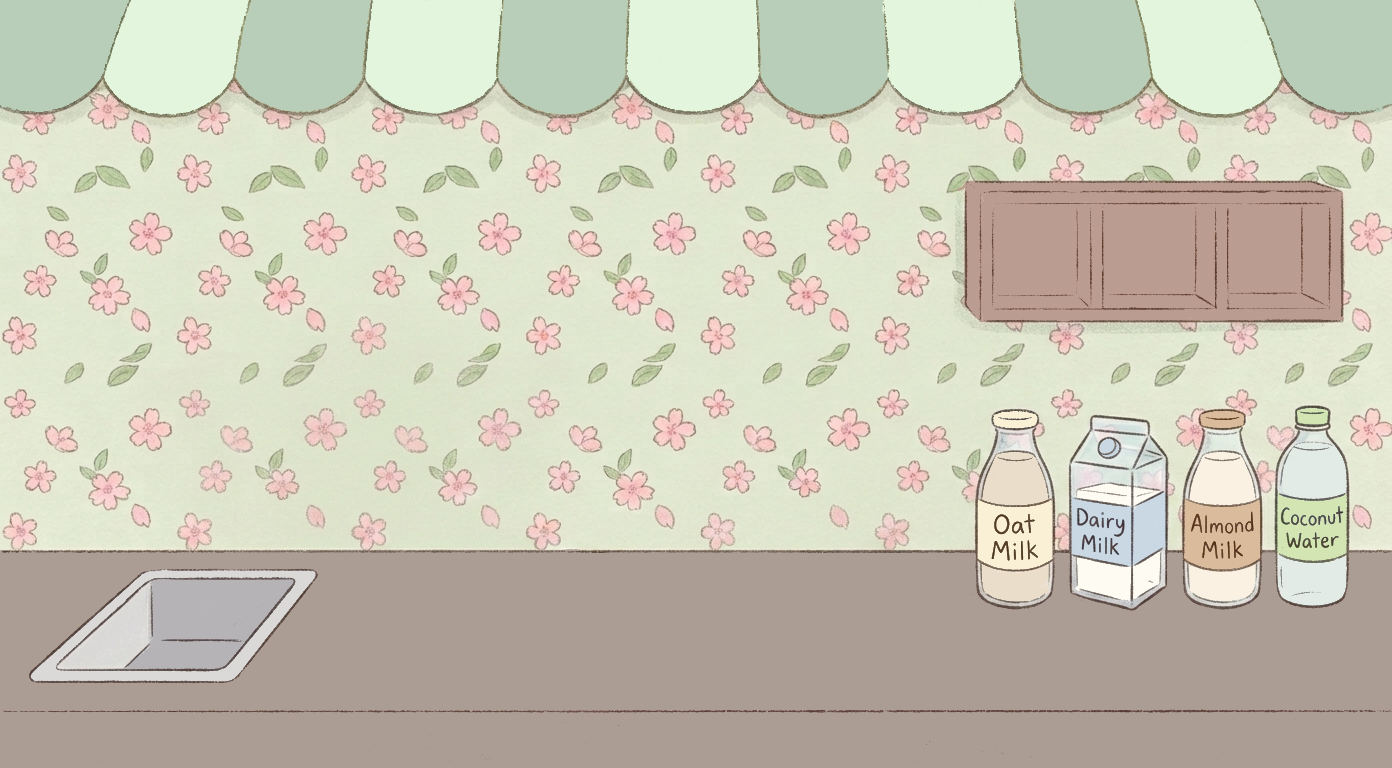
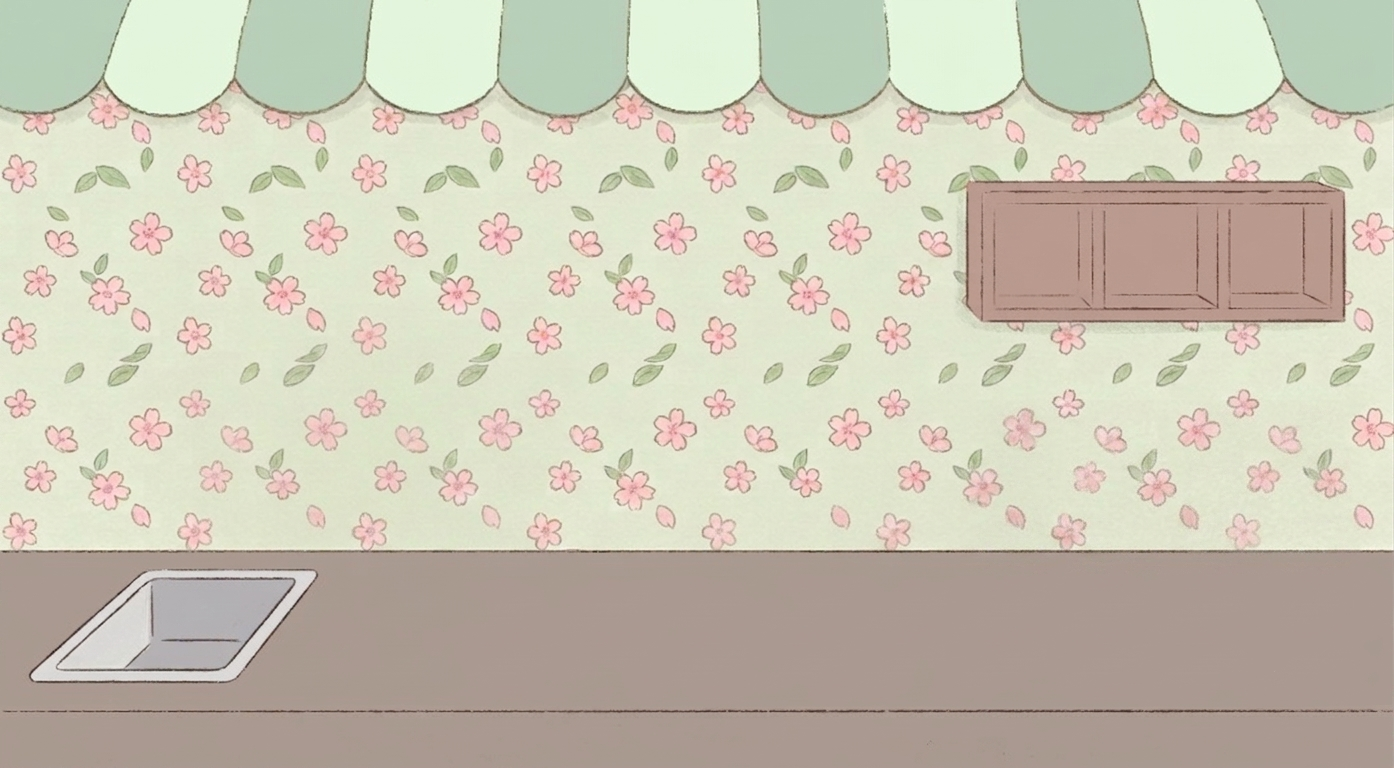
Separated elements from background in frame 4 (milk station), bottles are now selectable

Changed region(s): [[0.6796, 0.5312, 0.9885, 0.8125]]

diff --git a/src/components/MilkSelection.js b/src/components/MilkSelection.js
@@ -20,6 +20,91 @@ const CUP_SPOTS = {
 const SHELF_SIZE = { width: 6.47, height: 12.39 };
 const TABLE_SIZE = { width: 19.40, height: 37.16 }; // same aspect ratio, 3x
 
+// The four milk/water bottles, standing in a tight row on the counter to
+// the right of the sink, roughly where they used to be baked directly into
+// MilkMixingStation.png before that art was swapped for a bottle-free
+// version. All four source PNGs share (near enough) the same 169x325
+// canvas aspect ratio, so rather than track four slightly different boxes
+// they're uniform: one BOTTLE_WIDTH/BOTTLE_HEIGHT pair (converted from that
+// canvas aspect into container-relative % -- see the width formula below,
+// which accounts for the container itself being 1920x1080 rather than
+// square) and one shared BOTTLE_BOTTOM so every bottle's base sits on the
+// same counter line regardless of height. These positions are each
+// bottle's "home" spot -- see BOTTLE_HOME below, and the drag/snap-back
+// handlers in the component, for the pick-up-and-put-back interaction.
+// top/BOTTLE_BOTTOM carry the same -0.96 letterbox offset as CUP_SPOTS/
+// ICE_BOX_SPOTS above.
+const BOTTLE_CANVAS_ASPECT = 169 / 325; // width/height, shared by all four PNGs
+const BOTTLE_HEIGHT = 38;
+const BOTTLE_WIDTH = BOTTLE_HEIGHT * BOTTLE_CANVAS_ASPECT * (9 / 16); // container is 1920x1080
+// A bit lower than the counter line the bottles used to stand on in the
+// baked-in art (78.47), but still well clear of the counter's front-edge
+// seam (~90.7% in container space, measured off MilkMixingStation.png) so
+// the bigger bottles below don't hang off the counter.
+const BOTTLE_BOTTOM = 83;
+const BOTTLE_VISUAL_GAP = 0.3; // sliver of space between each bottle's actual silhouette
+const BOTTLE_CLUSTER_CENTER = 83; // roughly centered under the cabinet in the art
+
+// Each PNG's canvas has a different amount of transparent padding around
+// its actual bottle/carton silhouette (measured from each file's own alpha
+// bounding box, as a fraction of its 169-or-170-wide canvas) -- packing by
+// box edges alone left wildly uneven, much-bigger-than-intended-looking
+// gaps since e.g. coconut's canvas has ~40% empty space on its left side
+// alone. leftPad/rightPad below are what let the loop underneath space
+// bottles by where their actual art starts/ends instead of by their boxes.
+const BOTTLE_KEYS = [
+  { key: 'oat', src: './OatMilk.png', alt: 'Oat milk', leftPad: 24 / 169, rightPad: (169 - 108) / 169 },
+  { key: 'dairy', src: './DairyMilk.png', alt: 'Dairy milk', leftPad: 34 / 170, rightPad: (170 - 136) / 170 },
+  { key: 'almond', src: './AlmondMilk.png', alt: 'Almond milk', leftPad: 34 / 169, rightPad: (169 - 119) / 169 },
+  { key: 'coconut', src: './CoconutWater.png', alt: 'Coconut water', leftPad: 67 / 169, rightPad: (169 - 144) / 169 },
+];
+
+// Walk left-to-right so each bottle's visible content (box left + leftPad,
+// through box left + (1 - rightPad) * BOTTLE_WIDTH) sits exactly
+// BOTTLE_VISUAL_GAP past the previous bottle's, then shift the whole row
+// so it's centered on BOTTLE_CLUSTER_CENTER.
+const bottleBoxLefts = [0];
+for (let i = 1; i < BOTTLE_KEYS.length; i += 1) {
+  const prev = BOTTLE_KEYS[i - 1];
+  const gapNeeded = (1 - prev.rightPad - BOTTLE_KEYS[i].leftPad) * BOTTLE_WIDTH + BOTTLE_VISUAL_GAP;
+  bottleBoxLefts.push(bottleBoxLefts[i - 1] + gapNeeded);
+}
+const clusterBoxWidth = bottleBoxLefts[bottleBoxLefts.length - 1] + BOTTLE_WIDTH - bottleBoxLefts[0];
+const clusterStartLeft = BOTTLE_CLUSTER_CENTER - clusterBoxWidth / 2;
+
+const BOTTLE_ITEMS = BOTTLE_KEYS.map((item, index) => ({
+  key: item.key,
+  src: item.src,
+  alt: item.alt,
+  left: clusterStartLeft + bottleBoxLefts[index],
+  top: BOTTLE_BOTTOM - BOTTLE_HEIGHT,
+  width: BOTTLE_WIDTH,
+  height: BOTTLE_HEIGHT,
+}));
+
+// Each bottle's counter spot, keyed for lookup -- both the starting
+// position on mount and the "home" a bottle snaps back to once it's been
+// picked up and set back down (see BOTTLE_SNAP_FRACTION/BOTTLE_CLICK_MAX_
+// MOVE_PCT below).
+const BOTTLE_HOME = BOTTLE_ITEMS.reduce((acc, item) => {
+  acc[item.key] = { left: item.left, top: item.top };
+  return acc;
+}, {});
+
+// Same idea as MatchaMaking's kettle/bowl/whisk: drop a bottle back close
+// to its home spot and it snaps the rest of the way in, scaled to the
+// bottle's own footprint. A drop anywhere else just leaves it there.
+const BOTTLE_SNAP_FRACTION = 0.5;
+// Below this much total pointer movement (in container %), a pointer-down
+// -> pointer-up is treated as a plain click/tap rather than a drag -- lets
+// players snap a displaced bottle straight home with a single click/Select
+// press instead of having to drag it all the way back themselves.
+const BOTTLE_CLICK_MAX_MOVE_PCT = 1;
+
+function clampPct(value, size) {
+  return Math.min(Math.max(value, 0), 100 - size);
+}
+
 // Seven ice cubes start piled inside the ice box in two vertical columns
 // (4 left, 3 right), each cube overlapping the one above it so the stack
 // stays within the box's shallow depth without spilling past its bottom
@@ -246,6 +331,71 @@ const MilkSelection = ({ activeStep, customerNumber, onNavigate, onAdvance }) =>
     });
   };
 
+  // ---- Milk/water bottles: pick up, move anywhere, snap back home -------
+  const [bottlePositions, setBottlePositions] = useState(BOTTLE_HOME);
+  // Which bottle (if any) is being dragged right now, and its live position.
+  const [bottleDrag, setBottleDrag] = useState(null); // { key, left, top } | null
+  const bottleDragStartRef = useRef({ pointerX: 0, pointerY: 0, left: 0, top: 0 });
+
+  const handleBottlePointerDown = (item) => (e) => {
+    const base = bottlePositions[item.key];
+    e.currentTarget.setPointerCapture(e.pointerId);
+    bottleDragStartRef.current = {
+      pointerX: e.clientX,
+      pointerY: e.clientY,
+      left: base.left,
+      top: base.top,
+    };
+    setBottleDrag({ key: item.key, left: base.left, top: base.top });
+  };
+
+  const handleBottlePointerMove = (item) => (e) => {
+    if (!bottleDrag || bottleDrag.key !== item.key) return;
+    const rect = containerRef.current?.getBoundingClientRect();
+    if (!rect) return;
+    const dxPct = ((e.clientX - bottleDragStartRef.current.pointerX) / rect.width) * 100;
+    const dyPct = ((e.clientY - bottleDragStartRef.current.pointerY) / rect.height) * 100;
+    setBottleDrag({
+      key: item.key,
+      left: clampPct(bottleDragStartRef.current.left + dxPct, item.width),
+      top: clampPct(bottleDragStartRef.current.top + dyPct, item.height),
+    });
+  };
+
+  const handleBottlePointerUp = (item) => (e) => {
+    if (!bottleDrag || bottleDrag.key !== item.key) return;
+    e.currentTarget.releasePointerCapture?.(e.pointerId);
+    const home = BOTTLE_HOME[item.key];
+    const totalMove = Math.max(
+      Math.abs(e.clientX - bottleDragStartRef.current.pointerX),
+      Math.abs(e.clientY - bottleDragStartRef.current.pointerY)
+    );
+    const rect = containerRef.current?.getBoundingClientRect();
+    const totalMovePct = rect ? (totalMove / Math.max(rect.width, rect.height)) * 100 : 0;
+    const snapBack =
+      totalMovePct < BOTTLE_CLICK_MAX_MOVE_PCT || // barely moved -- treat as a click, snap home
+      (Math.abs(bottleDrag.left - home.left) < item.width * BOTTLE_SNAP_FRACTION &&
+        Math.abs(bottleDrag.top - home.top) < item.height * BOTTLE_SNAP_FRACTION);
+    setBottlePositions((prev) => ({
+      ...prev,
+      [item.key]: snapBack ? { left: home.left, top: home.top } : { left: bottleDrag.left, top: bottleDrag.top },
+    }));
+    setBottleDrag(null);
+  };
+
+  // D-pad / keyboard equivalent of a click -- always snaps the selected
+  // bottle straight back to its home spot, matching the click behavior
+  // above (there's no keyboard equivalent of "drag it partway", so Enter
+  // only covers the "put it back" half of the interaction).
+  const handleBottleKeyDown = (item) => (e) => {
+    const action = getActionFromKeyEvent(e);
+    if (action !== 'Enter') return;
+    if (shouldDebounceEnter(e)) return;
+    e.preventDefault();
+    const home = BOTTLE_HOME[item.key];
+    setBottlePositions((prev) => ({ ...prev, [item.key]: { left: home.left, top: home.top } }));
+  };
+
   return (
     <div className="milk-selection-container" ref={containerRef}>
       <h1 className="sr-only">Milk Mixing Station</h1>
@@ -253,7 +403,7 @@ const MilkSelection = ({ activeStep, customerNumber, onNavigate, onAdvance }) =>
       <div className="milk-selection-content">
         <img
           src="./MilkMixingStation.png"
-          alt="Milk mixing station with sink, cabinet, and oat, dairy, almond, and coconut milk"
+          alt="Milk mixing station with sink and cabinet"
           className="milk-selection-art"
         />
         <img
@@ -299,6 +449,32 @@ const MilkSelection = ({ activeStep, customerNumber, onNavigate, onAdvance }) =>
               onPointerMove={handleIcePointerMove}
               onPointerUp={handleIcePointerUp}
               onKeyDown={handleIceKeyDown(index)}
+            />
+          );
+        })}
+
+        {BOTTLE_ITEMS.map((item) => {
+          const dragging = bottleDrag?.key === item.key;
+          const pos = dragging ? bottleDrag : bottlePositions[item.key];
+          return (
+            <img
+              key={item.key}
+              src={item.src}
+              alt={`${item.alt}. Drag to move, or select it and press Enter to send it back to its spot.`}
+              className={`milk-bottle${dragging ? ' dragging' : ''}`}
+              data-focusable
+              tabIndex={0}
+              draggable={false}
+              style={{
+                left: `${pos.left}%`,
+                top: `${pos.top}%`,
+                width: `${item.width}%`,
+                height: `${item.height}%`,
+              }}
+              onPointerDown={handleBottlePointerDown(item)}
+              onPointerMove={handleBottlePointerMove(item)}
+              onPointerUp={handleBottlePointerUp(item)}
+              onKeyDown={handleBottleKeyDown(item)}
             />
           );
         })}

diff --git a/src/components/MilkSelection.css b/src/components/MilkSelection.css
@@ -21,11 +21,15 @@
   border-radius: 16px;
   overflow: hidden;
   box-shadow: 0 15px 30px rgba(0, 0, 0, 0.2);
-  /* Matches the art's own counter tone. This image is 1392x768 (~1.813),
-     slightly wider than 16:9 (1.778), so object-fit: contain below leaves a
-     ~1.93% letterbox -- pushed entirely to the bottom (see object-position
-     on .milk-selection-art) so the seam sits against the counter color
-     instead of splitting a thin sliver across the top too. */
+  /* Matches the art's own counter tone. This image is 1394x768 (~1.815,
+     matching MatchaBaseStation.png's dimensions), slightly wider than 16:9
+     (1.778), so object-fit: contain below leaves a ~2.06% letterbox --
+     pushed entirely to the bottom (see object-position on
+     .milk-selection-art) so the seam sits against the counter color
+     instead of splitting a thin sliver across the top too. (Swapped in
+     from a 1392x768 version of the same art with the milk bottles baked
+     into it -- close enough in size that the -0.96 top-offset below is
+     still accurate to well under a pixel, so it wasn't worth re-deriving.) */
   background-color: #ab9d94;
 }
 
@@ -150,4 +154,38 @@
   filter: drop-shadow(0 3px 4px rgba(0, 0, 0, 0.2))
     drop-shadow(0 0 4px rgba(255, 255, 255, 0.95))
     drop-shadow(0 0 8px rgba(255, 255, 255, 0.75));
+}
+
+/* The four milk/water bottles standing on the counter (see BOTTLE_ITEMS/
+   BOTTLE_HOME in MilkSelection.js) -- pick-up-and-move countertop items,
+   same drag + D-pad-select + snap-home pattern as .glass-cup/.ice-cube.
+   Two extra zero-strength drop-shadows kept in the base filter (matching
+   the same trick used on .glass-cup/.ice-cube) so the filter list's length
+   matches :focus-visible below, which is what lets the glow transition in/
+   out smoothly instead of popping. */
+.milk-bottle {
+  position: absolute;
+  object-fit: contain;
+  cursor: grab;
+  touch-action: none;
+  -webkit-user-select: none;
+  user-select: none;
+  filter: drop-shadow(0 4px 6px rgba(0, 0, 0, 0.18)) drop-shadow(0 0 0 rgba(255, 255, 255, 0))
+    drop-shadow(0 0 0 rgba(255, 255, 255, 0));
+  transition: left 0.2s ease, top 0.2s ease, filter 0.15s ease, transform 0.15s ease;
+}
+
+.milk-bottle.dragging {
+  cursor: grabbing;
+  transition: none;
+}
+
+/* Same shape-hugging focus glow as .glass-cup/.ice-cube. */
+.milk-bottle:focus-visible {
+  outline: none;
+  box-shadow: none;
+  transform: scale(1.1);
+  filter: drop-shadow(0 4px 6px rgba(0, 0, 0, 0.18))
+    drop-shadow(0 0 5px rgba(255, 255, 255, 0.95))
+    drop-shadow(0 0 10px rgba(255, 255, 255, 0.75));
 }